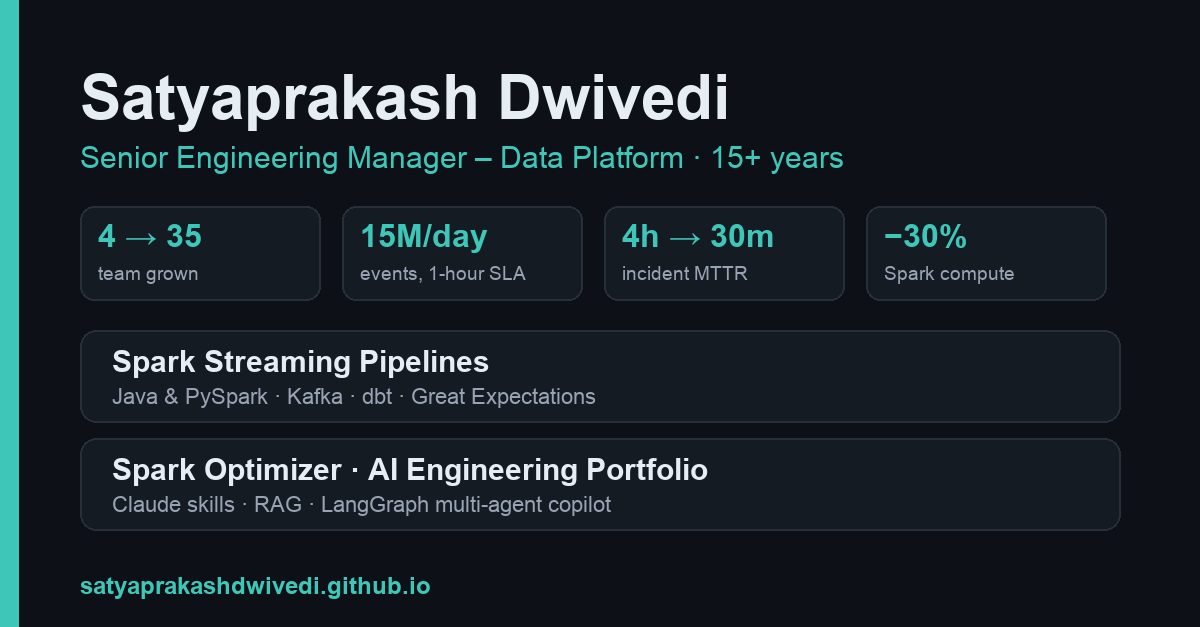
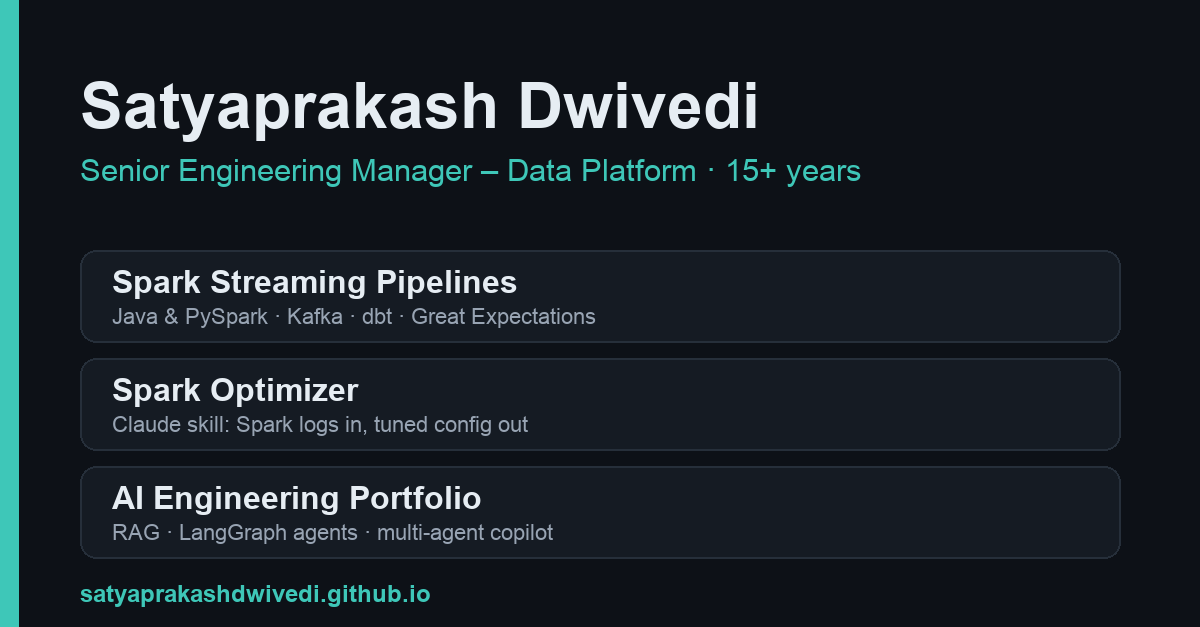
Remove the impact strip

diff --git a/index.html b/index.html
@@ -84,10 +84,6 @@
     .empty { color: var(--muted); }
 
     .location { margin: 2px 0 0; color: var(--muted); font-size: 14px; }
-    .stats { display: grid; grid-template-columns: repeat(auto-fit, minmax(170px, 1fr)); gap: 12px; margin-top: 30px; }
-    .stat { background: var(--surface); border: 1px solid var(--line); border-radius: 14px; padding: 16px 18px; box-shadow: var(--shadow); }
-    .stat strong { display: block; font-size: 26px; line-height: 1.2; letter-spacing: -.02em; color: var(--accent); }
-    .stat span { display: block; margin-top: 4px; font-size: 13.5px; color: var(--muted); line-height: 1.4; }
     .experience { list-style: none; margin: 0; padding: 0; background: var(--surface); border: 1px solid var(--line);
                   border-radius: 14px; box-shadow: var(--shadow); }
     .experience li { padding: 16px 20px; border-top: 1px solid var(--line); }
@@ -126,8 +122,6 @@
         LinkedIn
       </a>
     </nav>
-
-    <section class="stats" aria-label="Impact at a glance"><div class="stat"><strong>15+</strong><span>years building data platforms</span></div><div class="stat"><strong>4 → 35</strong><span>engineers: team grown across 3 countries</span></div><div class="stat"><strong>15M/day</strong><span>events under a 1-hour SLA</span></div><div class="stat"><strong>4h → 30m</strong><span>incident MTTR with AI-assisted triage</span></div><div class="stat"><strong>−30%</strong><span>Spark compute cost via a log-reading optimiser</span></div></section>
 
     <h2>What I work on</h2>
     <div class="focus-grid"><div class="focus"><h3>Streaming data platforms</h3><p>Spark Structured Streaming and Kafka pipelines that are config-driven, tested and production-shaped, as I&#x27;ve run at Expedia and for a Fortune 100 card issuer.</p></div><div class="focus"><h3>Data quality &amp; reliability</h3><p>Great Expectations, quarantine streams, SLA-bound pipelines and on-call that starts with context, not from zero.</p></div><div class="focus"><h3>AI-assisted engineering</h3><p>Claude skills and multi-agent workflows that turn expertise into tools a whole team can use, always with human review.</p></div></div>

diff --git a/site/template.html b/site/template.html
@@ -84,10 +84,6 @@
     .empty { color: var(--muted); }
 
     .location { margin: 2px 0 0; color: var(--muted); font-size: 14px; }
-    .stats { display: grid; grid-template-columns: repeat(auto-fit, minmax(170px, 1fr)); gap: 12px; margin-top: 30px; }
-    .stat { background: var(--surface); border: 1px solid var(--line); border-radius: 14px; padding: 16px 18px; box-shadow: var(--shadow); }
-    .stat strong { display: block; font-size: 26px; line-height: 1.2; letter-spacing: -.02em; color: var(--accent); }
-    .stat span { display: block; margin-top: 4px; font-size: 13.5px; color: var(--muted); line-height: 1.4; }
     .experience { list-style: none; margin: 0; padding: 0; background: var(--surface); border: 1px solid var(--line);
                   border-radius: 14px; box-shadow: var(--shadow); }
     .experience li { padding: 16px 20px; border-top: 1px solid var(--line); }
@@ -126,8 +122,6 @@
         LinkedIn
       </a>
     </nav>
-
-    <section class="stats" aria-label="Impact at a glance">{{STATS}}</section>
 
     <h2>What I work on</h2>
     <div class="focus-grid">{{FOCUS_CARDS}}</div>

diff --git a/site/build_site.py b/site/build_site.py
@@ -99,8 +99,6 @@ def render_page(curated, projects):
     escape = html.escape
     focus_cards = "".join(f'<div class="focus"><h3>{escape(area["title"])}</h3><p>{escape(area["text"])}</p></div>'
                           for area in profile["focus"])
-    stat_tiles = "".join(f'<div class="stat"><strong>{escape(stat["value"])}</strong><span>{escape(stat["label"])}</span></div>'
-                         for stat in profile.get("stats", []))
     experience_rows = "".join(
         f'<li><div class="company">{escape(job["company"])}<span>{escape(job["years"])}</span></div>'
         f'<div class="role">{escape(job["role"])}</div><p>{escape(job["text"])}</p></li>'
@@ -117,7 +115,6 @@ def render_page(curated, projects):
             .replace("{{LINKEDIN}}", escape(profile["linkedin"]))
             .replace("{{SITE_URL}}", SITE_URL)
             .replace("{{LOCATION}}", escape(profile.get("location", "")))
-            .replace("{{STATS}}", stat_tiles)
             .replace("{{EXPERIENCE}}", experience_rows)
             .replace("{{EXPERIENCE_EARLIER}}", escape(profile.get("experience_earlier", "")))
             .replace("{{FOCUS_CARDS}}", focus_cards)
